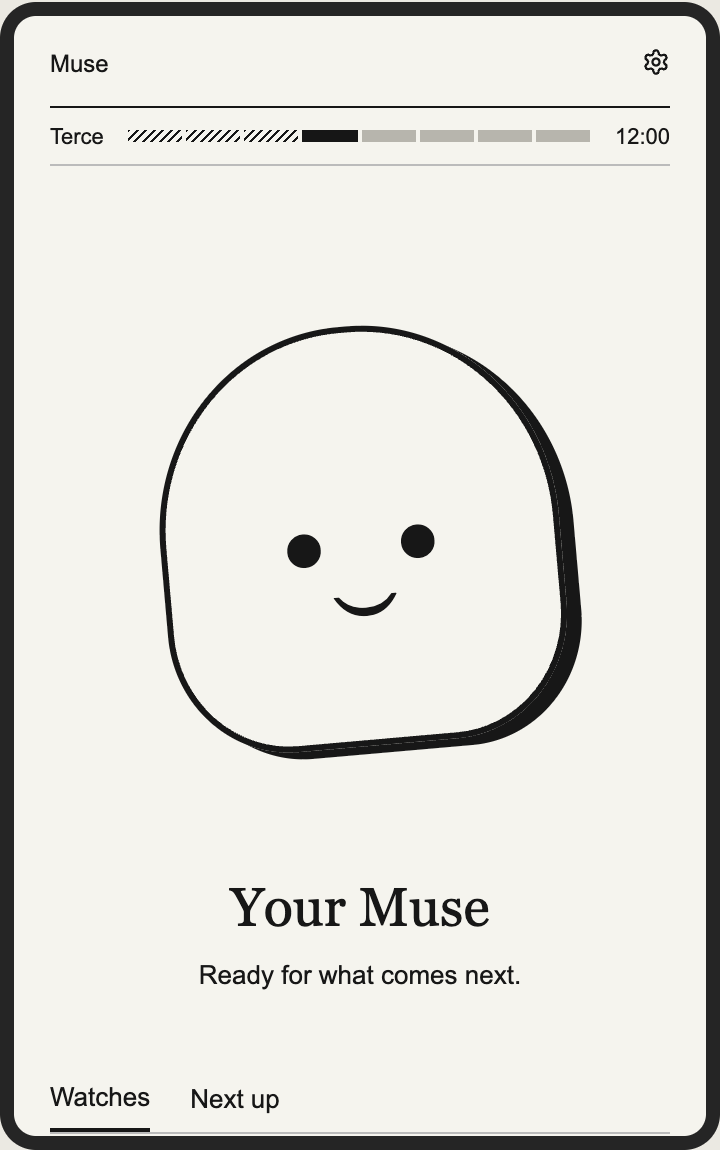
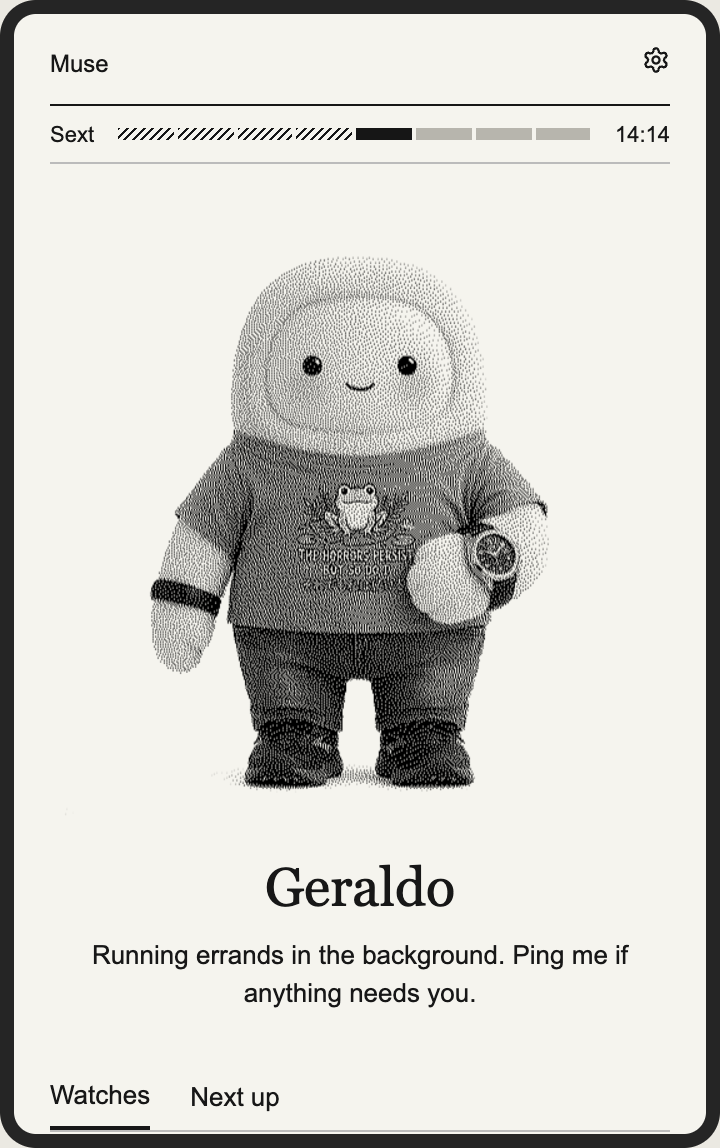
Show live Geraldo preview in README

diff --git a/README.md b/README.md
@@ -22,11 +22,12 @@ liturgical review.
 
 ## Screenshots
 
-Offline Mac previews with synthetic content and the built-in placeholder character.
-Watches and What’s Next appear farther down the scrollable Muse view.
+The Muse screenshot shows the running Mac preview with Geraldo’s delivered avatar
+and current caption. The Hours screenshot uses the offline prayer pack. Watches
+and What’s Next appear farther down the scrollable Muse view.
 
 <p>
-  <img src="docs/images/mac-muse-preview.png" width="320" alt="Muse preview with placeholder avatar, compact hour timeline, and Watches and Next up tabs">
+  <img src="docs/images/mac-muse-preview.png" width="320" alt="Live Muse preview showing Geraldo’s avatar and caption, compact hour timeline, and Watches and Next up tabs">
   <img src="docs/images/mac-hours-preview.png" width="320" alt="Hours preview with active-hour progress strip and Latin followed by English prayer text">
 </p>
 
@@ -76,13 +77,14 @@ keep it local and never upload it to GitHub or an issue.
 
 Read [CONTRIBUTING.md](CONTRIBUTING.md) and [AGENTS.md](AGENTS.md). The included
 [muse-pocket skill](skills/muse-pocket/SKILL.md) covers pinned builds and safe SD updates.
-Only source, synthetic examples and public prayer data belong in commits. SDK tokens,
-pairing state, personal display payloads and private firmware stay local.
+Source, public prayer data, and explicitly shared screenshots belong in commits.
+SDK tokens, pairing state, private watch/event data and private firmware stay local.
 
 ## License and upstream
 
 Source retains [Apache-2.0](LICENSE) and the notices in [NOTICE](NOTICE).
 Divinum Officium-derived text retains its [MIT notice](tools/office/DIVINUM-LICENSE).
-No license-excluded SDK avatar or generated personal Muse character is bundled here.
+The SDK’s license-excluded Jollybot asset is not bundled. The README screenshot
+includes the author’s own Muse avatar, shared as an illustration outside the source-code license.
 This community fork is not an official Xteink or Meta product. Pairing also requires
 the [Gadget SDK Terms](https://gadgets.muse.ai/sdk-terms).
